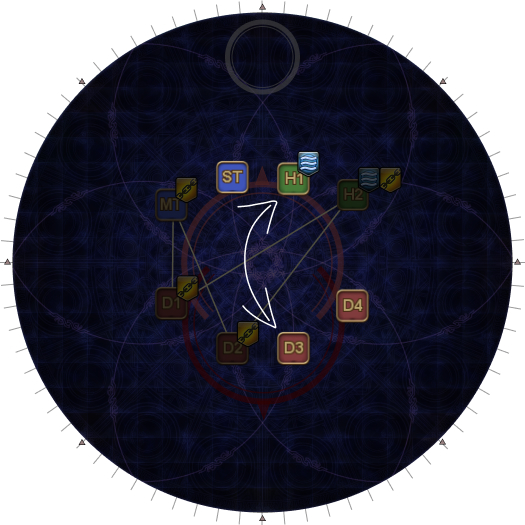
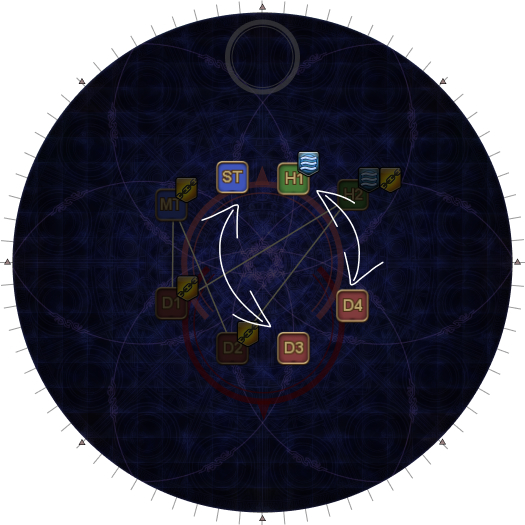
Clarify swaps at Darklit

Changed region(s): [[0.3962, 0.3657, 0.5486, 0.64], [0.64, 0.4267, 0.7314, 0.5486], [0.6095, 0.3657, 0.6705, 0.4267]]

diff --git a/_ultimates/fru/04_gaia_and_shiva.md b/_ultimates/fru/04_gaia_and_shiva.md
@@ -126,12 +126,13 @@ With the tethers sorted out, the next thing we need to do is separate the two
   <tr>
     <td width="50%">
       <p><b>3.</b> If the two <em>Dark Water III</em> debuffs are on different 
-      sides, then no further adjustments need to be made.</p>
-      <p>If both <em>Dark Water III</em> debuffs are on either the 
-      tank/healers or the DPS, then <em>everybody</em> who is not tethered
-      swaps side.</p>
-      <p><em>(In this example, since both healers have Water, all the 
-      non-tethered players swaps side.)</em></p>
+      sides (North vs. South), then no further adjustments need to be made.</p>
+      <p>If the <em>Dark Water III</em> debuffs are either both North, or both
+      South, then <em>everybody</em> who is not tethered swaps their
+      North/South sides.</p>
+      <p><em>(In this example, since both Water debuffs are in the North group,
+      all the non-tethered players swaps side. ST and H1 go South, while D3 and
+      D4 go North.)</em></p>
     </td>
     <td>
       <img src="{{site.baseurl}}/images/ultimates/fru/04/darklit_03.jpg">
